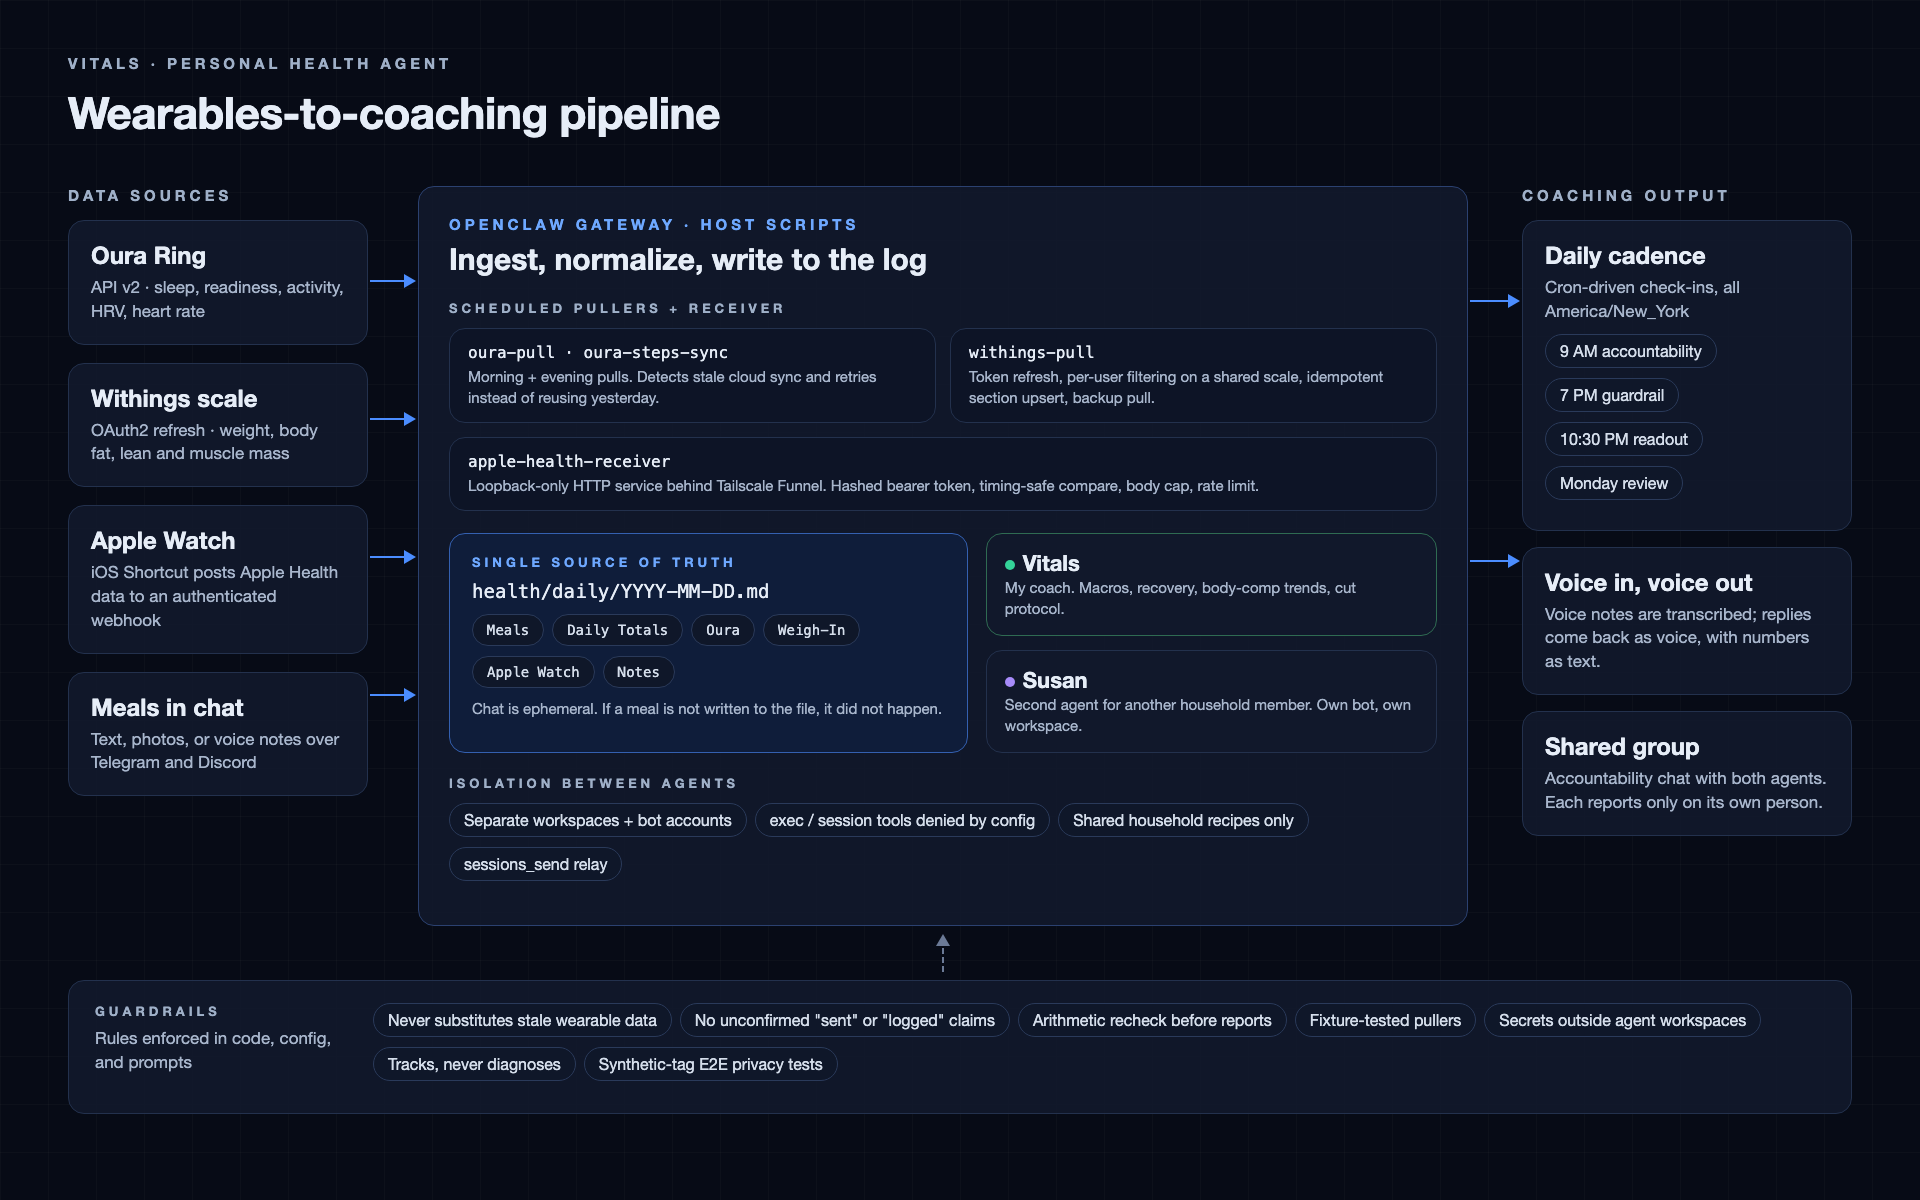
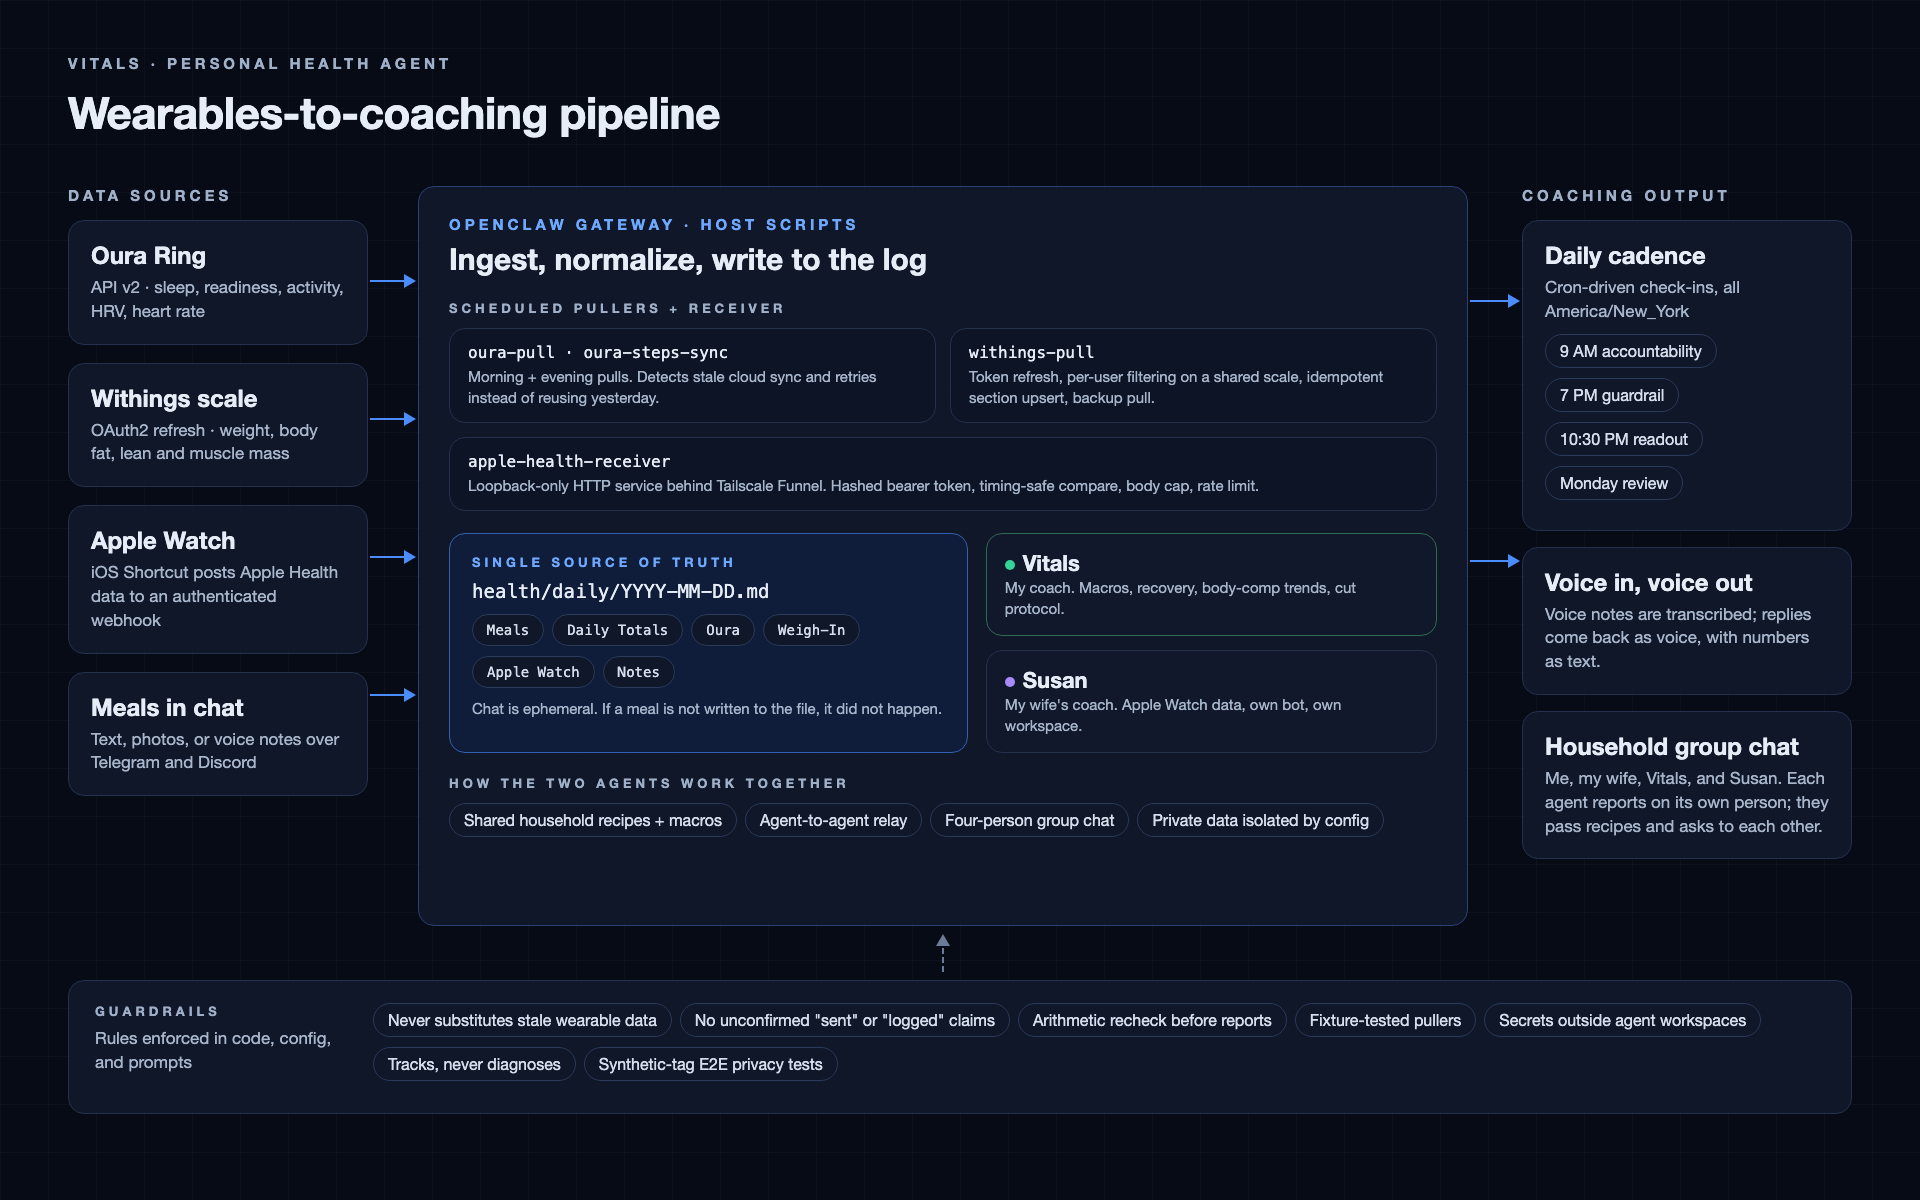
Portfolio: Highlight how Vitals and Susan collaborate as a household
Frames Susan as my wife's agent and covers the four-person group chat, shared household recipes and macros, and the agent-to-agent relay. Updates the architecture diagram to match.

Changed region(s): [[0.25, 0.6475, 0.7188, 0.74], [0.8125, 0.6167, 0.9688, 0.7092], [0.5312, 0.5858, 0.7188, 0.6167]]

diff --git a/src/data/projectData.ts b/src/data/projectData.ts
@@ -371,7 +371,7 @@ export const projects: Project[] = [
     title: "Vitals: AI Health Agent",
     name: "Vitals Health Agent",
     previewDescription:
-      "My personal AI health coach. Vitals pulls Oura Ring and Withings scale data on a schedule, logs meals from text and voice notes, and checks me against macro, activity, and recovery targets every day. A sibling agent, Susan, extends the same system to a second household member through Apple Watch.",
+      "My personal AI health coach. Vitals pulls Oura Ring and Withings scale data on a schedule, logs meals from text and voice notes, and checks me against macro, activity, and recovery targets every day. A sibling agent, Susan, coaches my wife through her Apple Watch, and the two agents share recipes and macros, pass requests to each other, and work alongside us in a four-person group chat.",
     description:
       `Vitals is the health agent in my OpenClaw setup (see the OpenClaw Multi-Agent Ops case study) and the one I use most. It started as a meal-logging bot and grew into a coach that has kept a daily health log for me since February 2026, roughly 245 days and counting.
       |
@@ -387,9 +387,13 @@ export const projects: Project[] = [
       |
       Data honesty was the hardest engineering problem. Oura's cloud often has not published today's activity by evening, and early versions quietly reported yesterday's steps. The steps sync now checks the record date, finds the latest cloud sync, retries with bounded backoff, and returns a distinct "upstream stale" exit code so the agent says the data is missing instead of guessing. The same rule applies to the agent itself: Vitals cannot say it logged or sent something unless the tool result confirms it. The pullers ship with shell test suites over fixture payloads covering section upserts, empty pulls, API errors, and stale data.
       |
-      Susan is a second health agent I built for another member of my household on the same architecture, with its own Telegram bot, workspace, and targets. That person wears an Apple Watch rather than an Oura Ring, so I built an Apple Health ingest path: an iOS Shortcut posts the day's steps, energy, exercise minutes, sleep stages, resting heart rate, and HRV to a small Node receiver on the VPS. It listens on loopback only behind Tailscale Funnel, checks a hashed bearer token with a constant-time compare, caps request size, and rate-limits.
+      Susan is the other half of the system: a health agent I built for my wife on the same architecture, with its own Telegram bot, workspace, and targets. She wears an Apple Watch rather than an Oura Ring, so I built an Apple Health ingest path: an iOS Shortcut on her phone posts the day's steps, energy, exercise minutes, sleep stages, resting heart rate, and HRV to a small Node receiver on the VPS. It listens on loopback only behind Tailscale Funnel, checks a hashed bearer token with a constant-time compare, caps request size, and rate-limits.
       |
-      Both agents sit in a shared accountability group, and each one reports only on its own person. Isolation is enforced in config, not prompts: separate workspaces, workspace-only file access, and shell and session tools denied where they are not needed. An end-to-end test plan uses synthetic tags to prove neither agent can read the other's data. The only shared file is a household recipe list, so a dish both people eat gets the same macros. Telegram bots cannot see each other's messages, so cross-agent asks go through one scoped relay tool.
+      The most interesting part is how the two agents work together. The four of us share one Telegram group: me, my wife, Vitals, and Susan. Ask "how are we both doing?" and each agent posts an update on its own person. Address one by name and only that one answers. It turns two private trackers into shared accountability for the household.
+      |
+      We eat a lot of the same meals, so the agents share a household recipe file with per-serving macros. When either of us logs a dish we both ate, the agent writes or updates the recipe first, and the other agent pulls the same numbers instead of estimating from scratch. The agents also talk to each other directly. Ask Vitals to send Susan a recipe or a macro breakdown, or to ask how my wife's day is going, and Vitals hands it off. Susan can do the same in the other direction. Telegram does not deliver one bot's messages to another bot, so the handoff goes through a scoped agent-to-agent relay, and the receiving agent confirms in the group.
+      |
+      Sharing has hard edges. Each agent can summarize its own person's goals and metrics in the group, but private DMs stay private, neither agent compares bodies or speaks for the other person, and the recipe file is the only shared path. That is enforced in config, not prompts: separate workspaces, workspace-only file access, and shell and session tools denied where they are not needed. An end-to-end test plan uses synthetic tags to prove neither agent can read the other's private data.
       |
       The lesson: a useful health agent is mostly a data-plumbing and trust problem. The model is the easy part. Getting clean, dated, correctly attributed data into one place, and making the agent admit when it is missing, is what made it worth using every day.
       |
@@ -404,7 +408,10 @@ export const projects: Project[] = [
       "Scheduled morning, evening, nightly, and weekly coaching check-ins",
       "Stale-data detection that never substitutes yesterday's numbers",
       "Voice replies with local transcription and text-to-speech",
-      "Two isolated agents with config-enforced privacy and E2E tests",
+      "Two collaborating agents for me and my wife in a shared group chat",
+      "Shared household recipes and macros across both agents",
+      "Agent-to-agent relay for recipes, macros, and check-ins",
+      "Config-enforced privacy between agents, verified with E2E tests",
       "Fixture-based test suites for every data puller",
     ],
     relatedLinks: [
